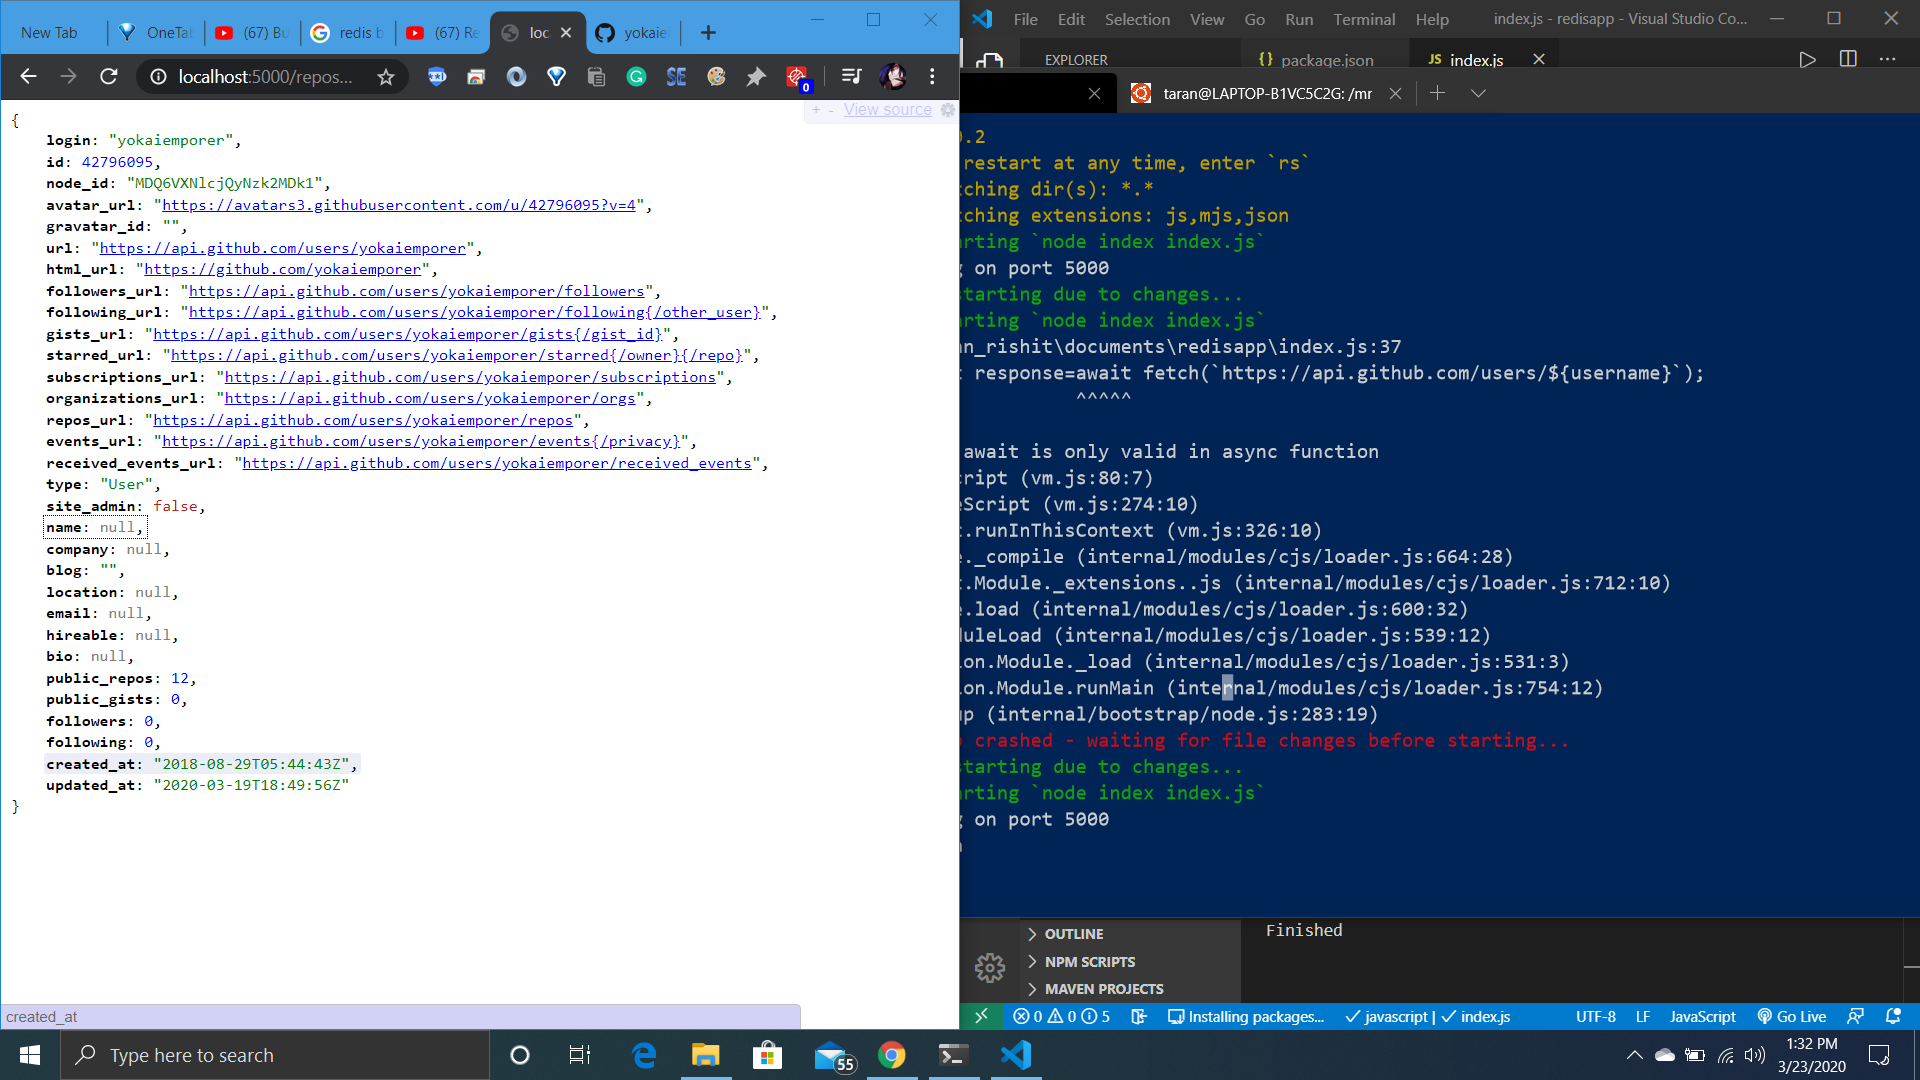
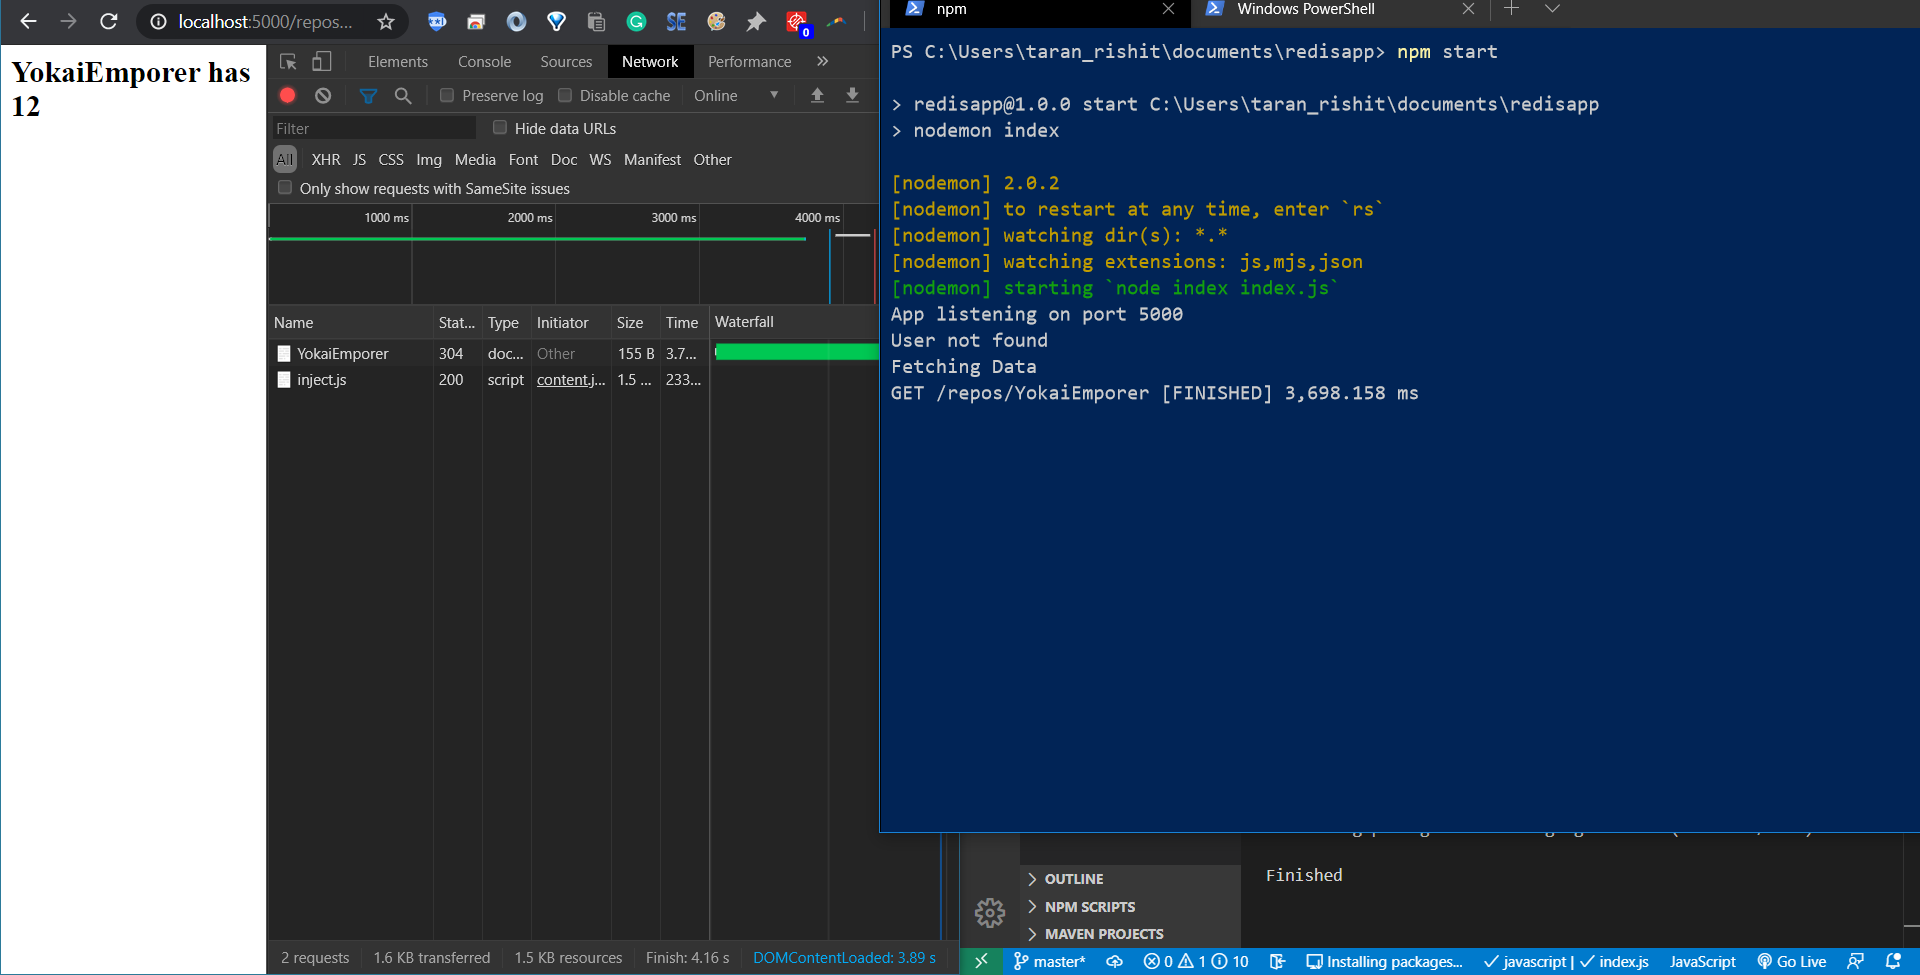
redis changes

diff --git a/index.js b/index.js
@@ -23,20 +23,38 @@
 // console.log(response);
 // }
 // });
+
 const express=require('express');
 const fetch=require('node-fetch')
 const redis=require('redis')
+const responseTime=require('./responseTime')
 const port=process.env.PORT||5000;
 const redis_port=process.env.port||6379;
 const client=redis.createClient(redis_port);
 const app=express();
+const getDurationInMilliseconds = (start) => {
+    const NS_PER_SEC = 1e9
+    const NS_TO_MS = 1e6
+    const diff = process.hrtime(start)
+    return (diff[0] * NS_PER_SEC + diff[1]) / NS_TO_MS
+}
+function setResponse(username,repos)
+{
+    return `<h2> ${username} has ${repos}</h2>`
+}
 async function getRepos(req,res,next){
     try{
+        const start = process.hrtime()
         console.log(`Fetching Data`);
         const {username}=req.params;
         const response=await fetch(`https://api.github.com/users/${username}`);
         const data=await response.json();
-        res.send(data);
+        const repos=data.public_repos;
+        //set data with client set key-> value with expiry of 3600
+        client.setex(username,3600,repos);
+        res.send(setResponse(username,repos));
+        const durationInMilliseconds = getDurationInMilliseconds (start)
+        console.log(`${req.method} ${req.originalUrl} [FINISHED] ${durationInMilliseconds .toLocaleString()} ms`)
 
     }
     catch(err)
@@ -45,7 +63,32 @@ async function getRepos(req,res,next){
         res.status(500);
     }
 }
-app.get('/repos/:username',getRepos);
+
+//Cache middleware
+function cache(req,res,next)
+{
+
+    const {username}=req.params;
+    const start = process.hrtime();
+    client.get(username,(err,data)=>{
+        if(err) throw err;
+        if(data!==null)
+        {
+            console.log('User Already cached')
+            const durationInMilliseconds = getDurationInMilliseconds (start)
+            console.log(`${req.method} ${req.originalUrl} [FINISHED] ${durationInMilliseconds .toLocaleString()} ms`)
+            res.send(setResponse(username,data));
+        }
+        else{
+            console.log('User not found')
+            next();
+        }
+    })
+
+    
+}
+// app.use(responseTime());
+app.get('/repos/:username',cache,getRepos);
 app.listen(5000,()=>{
     console.log(`App listening on port ${port}`);
 })

diff --git a/responseTime.js b/responseTime.js
@@ -1,0 +1,16 @@
+module.exports = function responseTime(){
+    return function(req, res, next){
+      var start = new Date;
+  
+      if (res._responseTime) return next();
+      res._responseTime = true;
+  
+      res.on('header', function(){
+        var duration = new Date - start;
+        res.setHeader('X-Response-Time', duration + 'ms');
+        console.log(`time taken ${duration}`);
+      });
+  
+      next();
+    };
+  };

diff --git a/Readme.md b/Readme.md
@@ -1,0 +1,3 @@
+start with:
+npm i
+npm start
